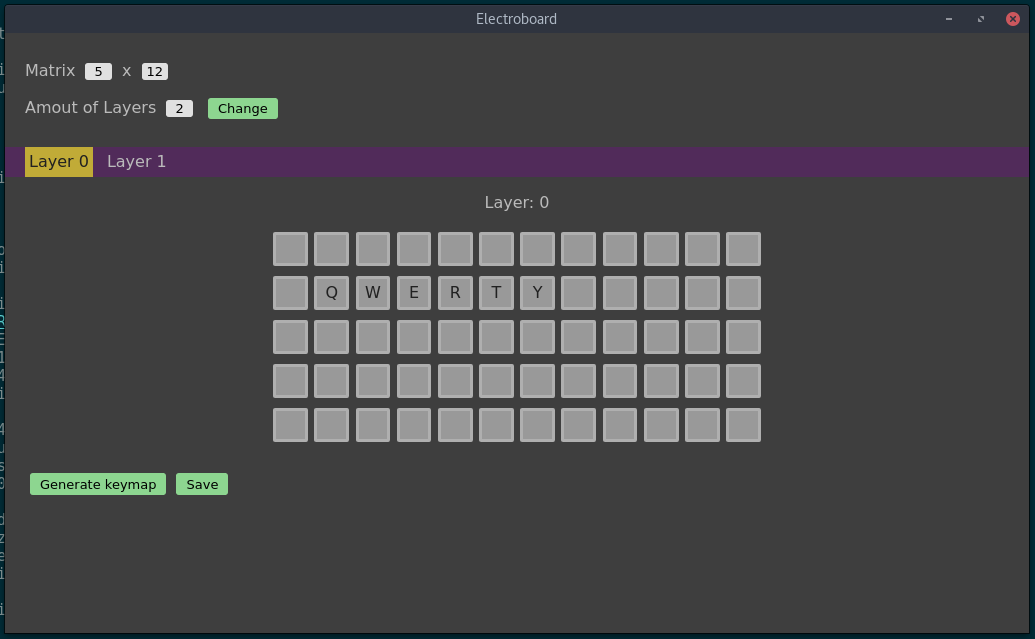
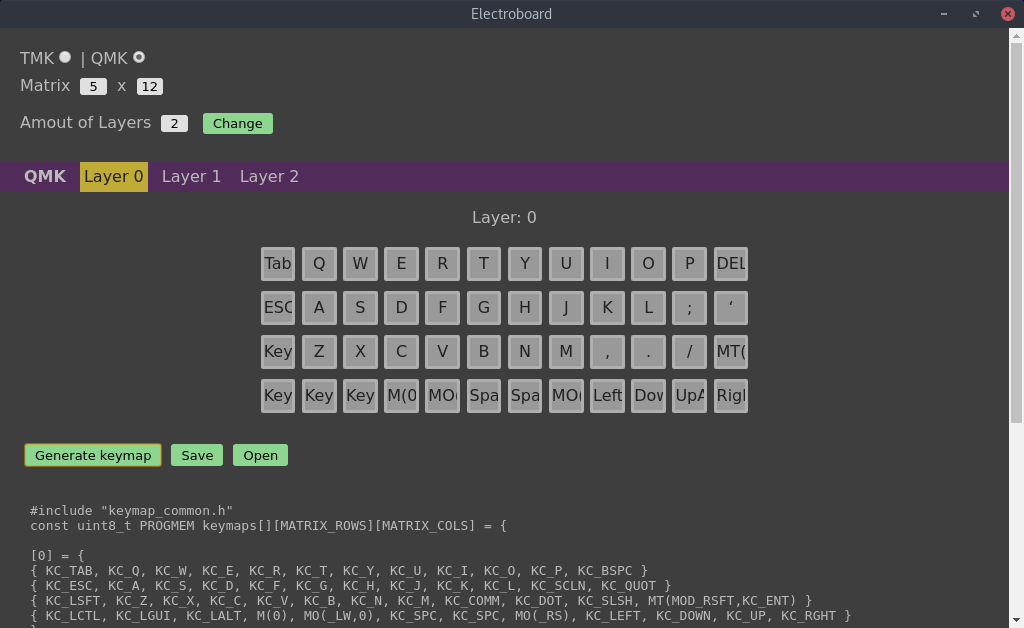
style for pre element and new screenshot

Changed region(s): [[0.0, 0.0, 1.0, 1.0]]

diff --git a/app/assets/style.css b/app/assets/style.css
@@ -96,3 +96,7 @@ button, input[type="submit"] {
 #actions {
   padding: 20px;
 }
+
+pre {
+  padding: 0 20px 20px 30px;
+}
